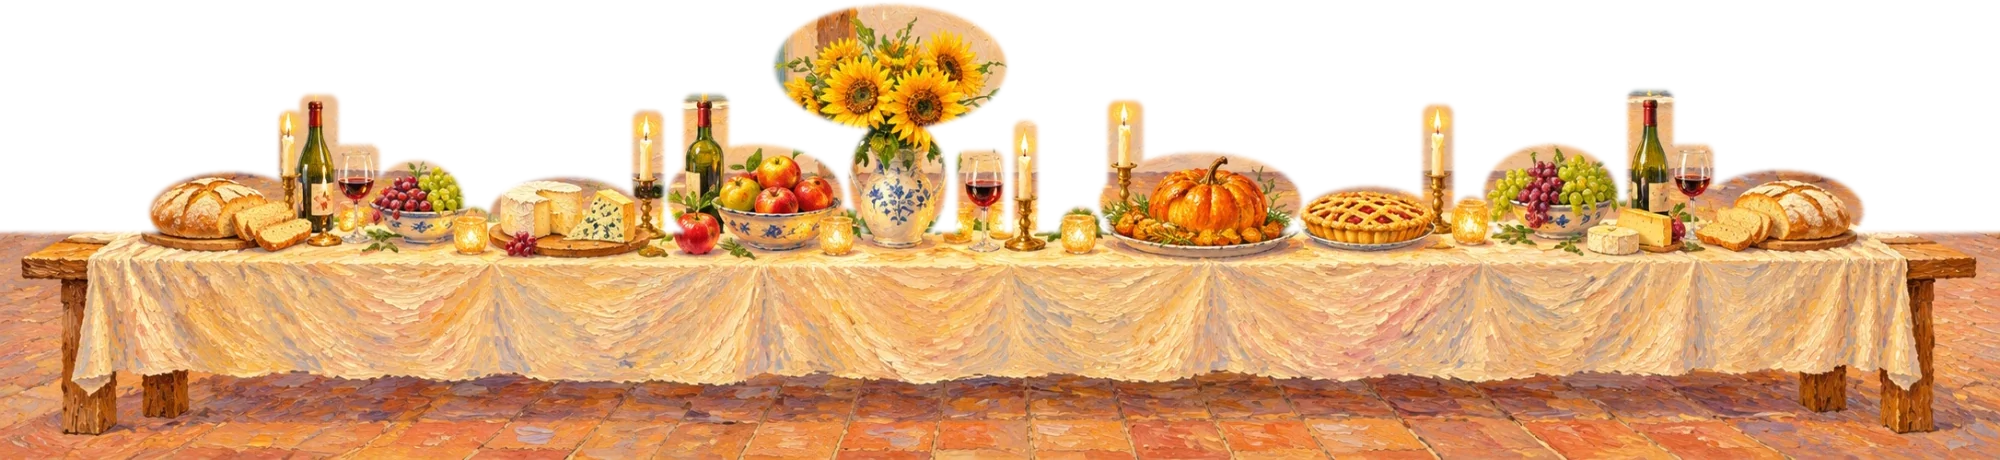
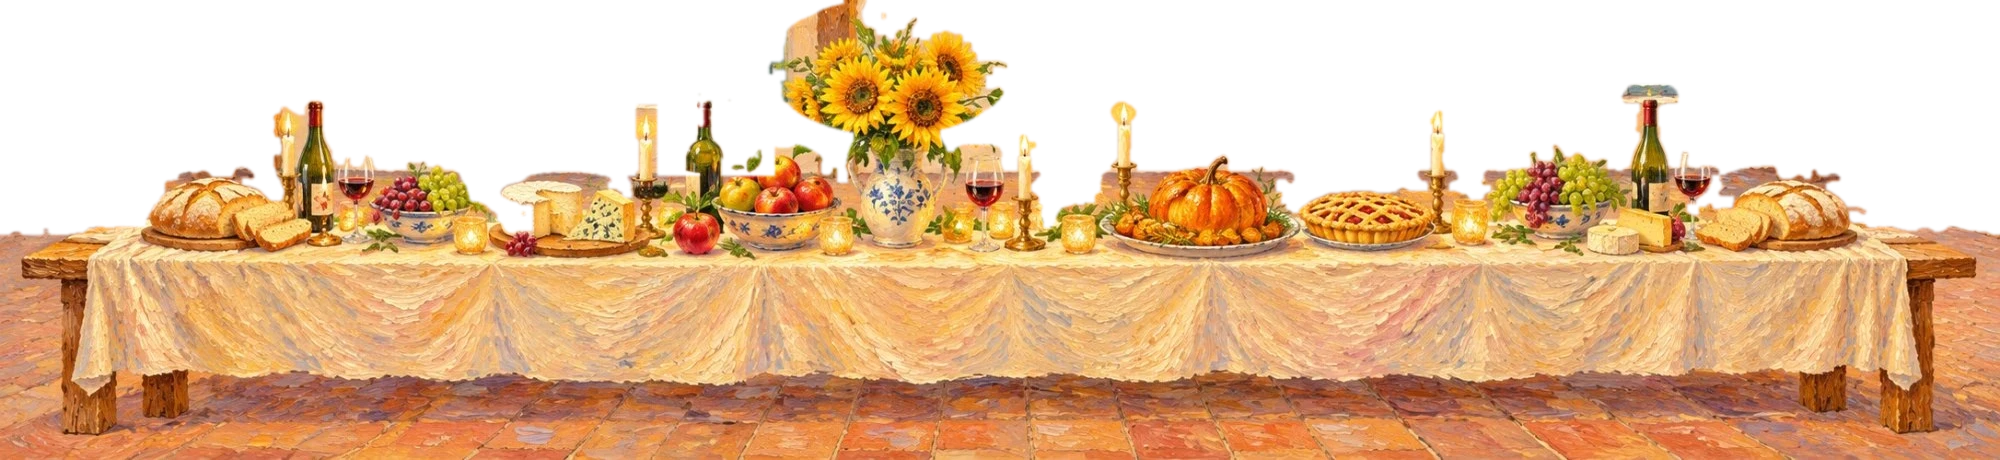
長桌：桌上食物前景改沿物件形狀切，不再有牆色方塊蓋住人

diff --git a/dinner.html b/dinner.html
@@ -53,7 +53,7 @@ async function main(){
   let list=[];
   if(DEMO){list=Array.from({length:13},(_,i)=>({id:'demo'+i,n:['林○○','陳○○','王○○','張○○','李○○'][i%5],ch:'村民',msg:['感恩有你們一起吃飯！','謝謝老師陪我畫完第一幅畫','今年最開心的一天','謝謝家人一直支持我','感恩每一堂課'][i%5],cut:'catch-video/dinner/demo/p'+String(i%15+1).padStart(2,'0')+'.webp'}))}
   else{try{const r=await fetch(NOTIFY_URL+'/dinner/list');const j=await r.json();if(j.ok)list=j.list||[]}catch(e){$('#cnt').textContent='讀不到名單，請稍後再試'}}
-  const [bg,fore]=await Promise.all([load('catch-video/dinner/table.jpg'),load('catch-video/dinner/fore.webp')]);
+  const [bg,fore]=await Promise.all([load('catch-video/dinner/table.jpg'),load('catch-video/dinner/fore.webp?v=2')]);
   const imgs=await Promise.all(list.map(x=>load(x.cut,!DEMO)));
   people=list.map((x,i)=>({...x,img:imgs[i]})).filter(x=>x.img);
   const segs=Math.max(1,Math.ceil(people.length/SEATS.length));

diff --git a/art.html b/art.html
@@ -585,7 +585,7 @@ function buildDinnerWall(){if(!dinnerOn())return;
   g.traverse(o=>{if(o.isMesh){o.userData.dinner=true;picks.push(o)}});
   // 畫：背景＋從伺服器拿名單把大家排上去＋桌上的食物蓋在前面（跟 dinner.html 同一套位子）
   const ld=(src,cors)=>new Promise(ok=>{const im=new Image();if(cors)im.crossOrigin='anonymous';im.onload=()=>ok(im);im.onerror=()=>ok(null);im.src=src});
-  (async()=>{const [bg,fore]=await Promise.all([ld('catch-video/dinner/table.jpg'),ld('catch-video/dinner/fore.webp')]);if(!bg)return;
+  (async()=>{const [bg,fore]=await Promise.all([ld('catch-video/dinner/table.jpg'),ld('catch-video/dinner/fore.webp?v=2')]);if(!bg)return;
     const k=1200/2000;cx.drawImage(bg,0,0,1200,400);tex.needsUpdate=true;
     let list=[];try{const j=await (await fetch(NOTIFY_URL+'/dinner/list')).json();if(j.ok)list=j.list||[]}catch(e){}
     const SEATS=[175,350,525,690,1075,1240,1405,1570,1740,1895],ims=await Promise.all(list.slice(-10).map(x=>ld(x.cut,true)));
